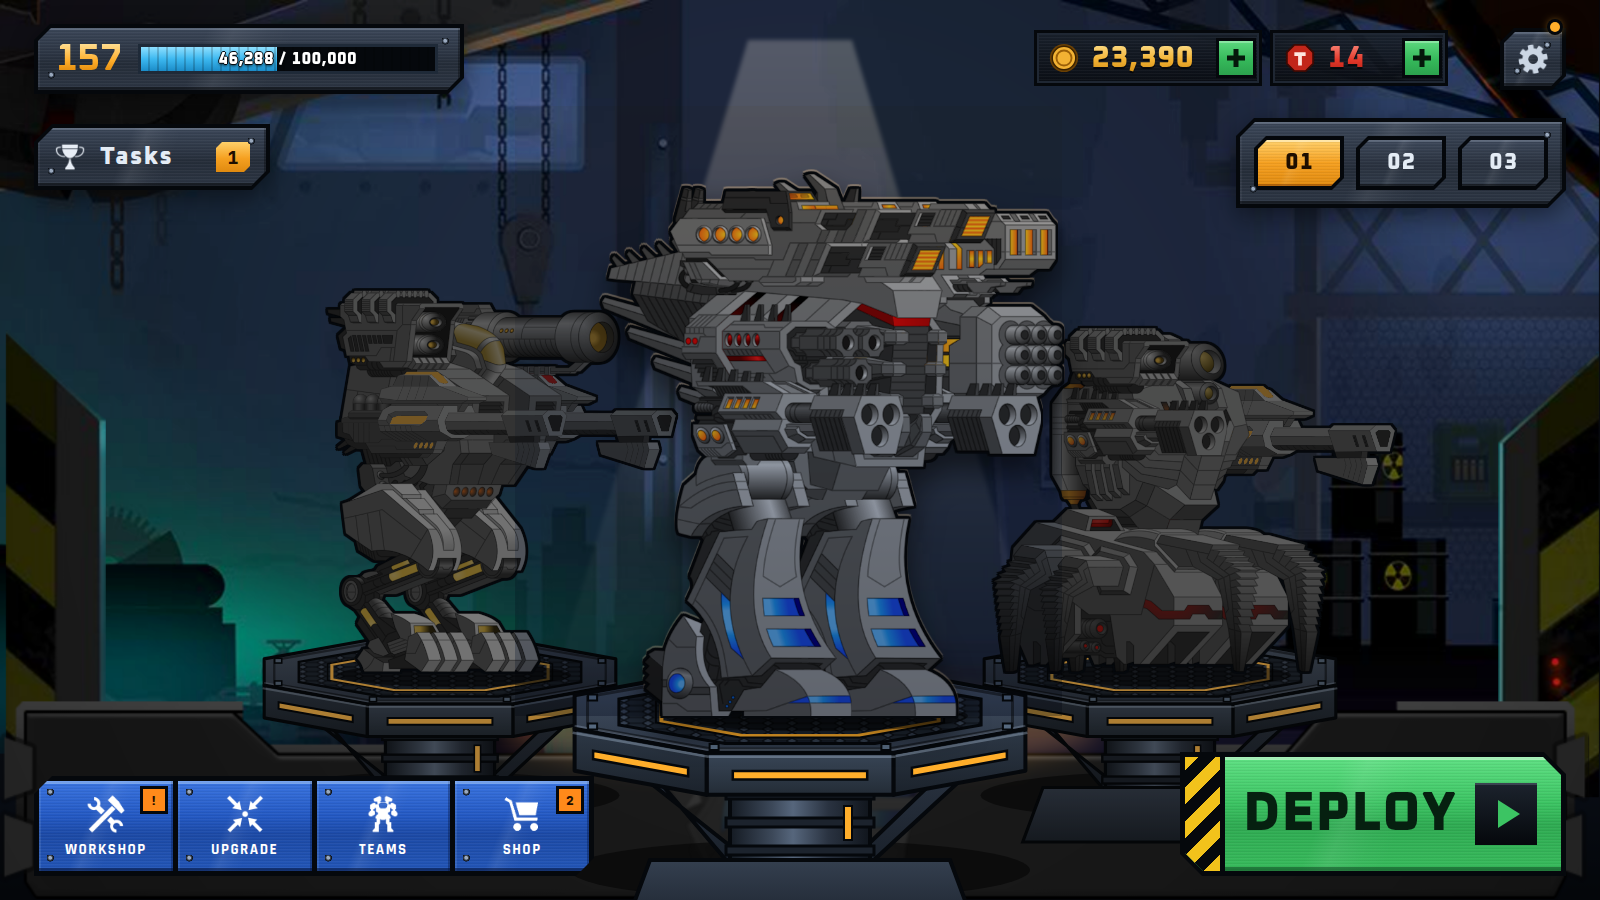
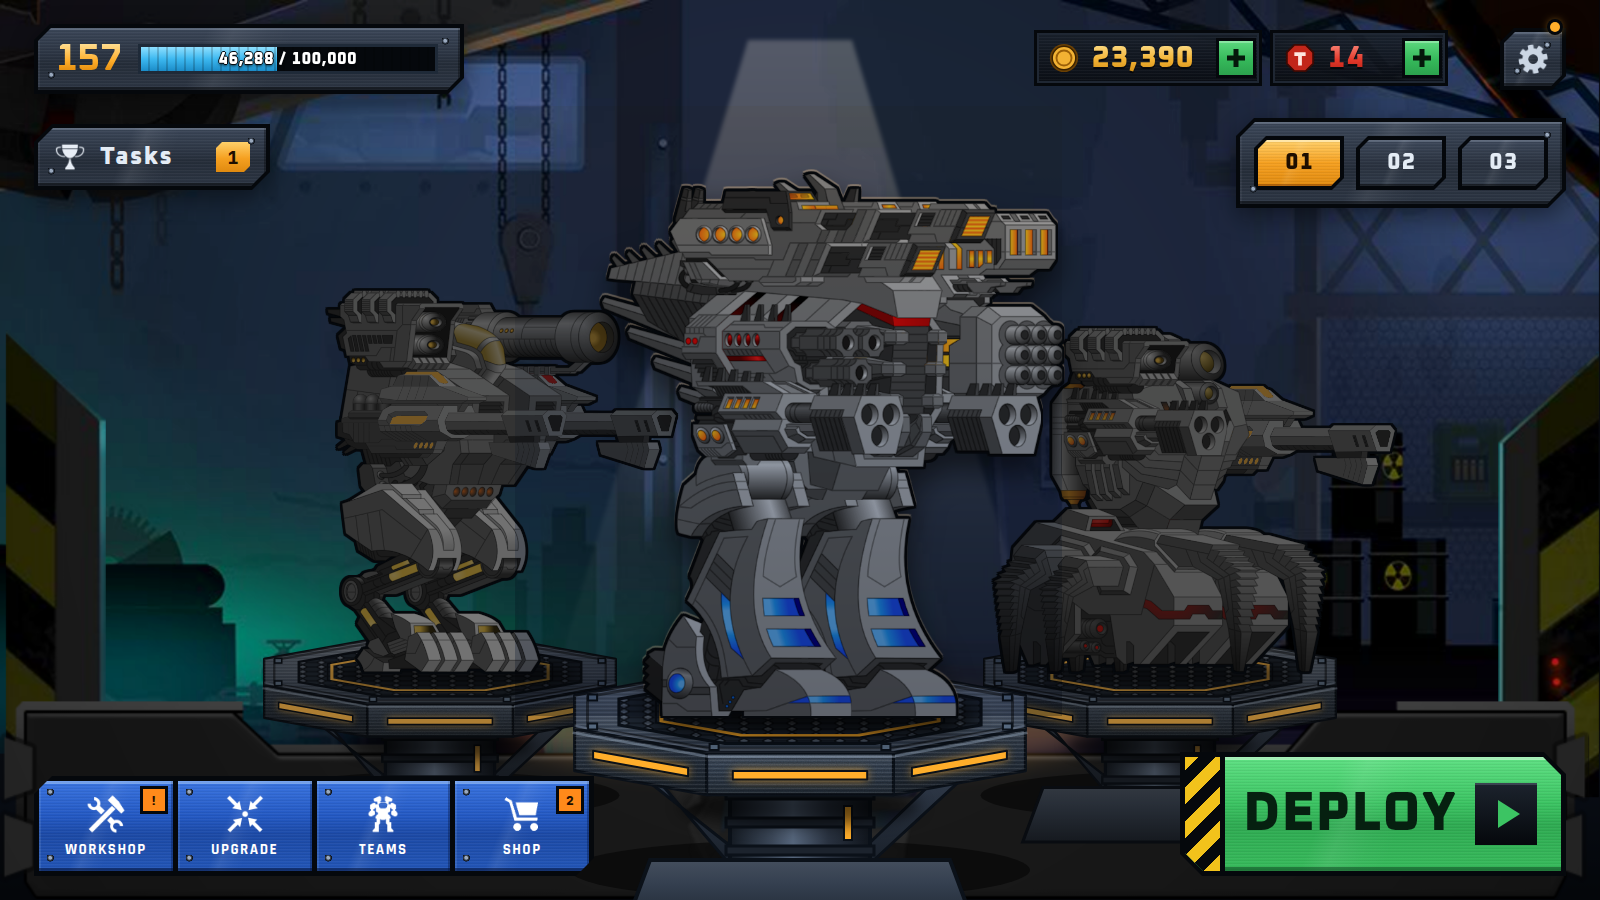
Softer, textured pedestals
Lighter rounded outlines, three-stop face gradients, brushed lines and fine
grain on every face, a warm light on the top plate, soft shadows where tiers
meet the column, and glowing amber strips.

Claude-Session: https://claude.ai/code/session_016EMeU7WbdybdkHaQ4QiAx5

diff --git a/ui/mocks/H-bay.html b/ui/mocks/H-bay.html
@@ -236,53 +236,66 @@ canvas{position:absolute;left:0;top:0;width:1600px;height:900px}
   <div id="refl"></div>
   <svg id="ped" width="1600" height="900" viewBox="0 0 1600 900">
     <defs>
+      <pattern id="brush" width="400" height="4" patternUnits="userSpaceOnUse"><rect width="400" height="1" fill="#fff" opacity=".09"/><rect y="2" width="400" height="1" fill="#000" opacity=".12"/></pattern>
+      <filter id="grain" x="0" y="0" width="100%" height="100%"><feTurbulence type="fractalNoise" baseFrequency=".85" numOctaves="2" seed="4"/><feColorMatrix values="0 0 0 0 0  0 0 0 0 0  0 0 0 0 0  0 0 0 .45 0"/><feComposite in2="SourceGraphic" operator="in"/></filter>
+      <filter id="glow" x="-40%" y="-200%" width="180%" height="500%"><feGaussianBlur stdDeviation="5"/></filter>
+      <filter id="soft" x="-30%" y="-80%" width="160%" height="260%"><feGaussianBlur stdDeviation="8"/></filter>
+      <radialGradient id="toplight" cx=".5" cy=".35" r=".6"><stop offset="0" stop-color="#ffe9c8" stop-opacity=".34"/><stop offset=".6" stop-color="#ffe9c8" stop-opacity=".08"/><stop offset="1" stop-color="#ffe9c8" stop-opacity="0"/></radialGradient>
       <pattern id="hex" width="24" height="14" patternUnits="userSpaceOnUse" patternTransform="scale(1,.42)">
         <path d="M6 0h12l6 7-6 7H6L0 7z" fill="#1d2530" stroke="#0b0f15" stroke-width="2.5"/>
       </pattern>
-      <linearGradient id="pf1" x1="0" y1="0" x2="0" y2="1"><stop offset="0" stop-color="#2e3847"/><stop offset="1" stop-color="#1a212b"/></linearGradient>
-      <linearGradient id="pf2" x1="0" y1="0" x2="0" y2="1"><stop offset="0" stop-color="#2e3847"/><stop offset="1" stop-color="#1a212b"/></linearGradient>
-      <linearGradient id="pf3" x1="0" y1="0" x2="0" y2="1"><stop offset="0" stop-color="#343f4f"/><stop offset="1" stop-color="#1c232d"/></linearGradient>
+      <linearGradient id="pf1" x1="0" y1="0" x2="0" y2="1"><stop offset="0" stop-color="#3e4755"/><stop offset=".35" stop-color="#2e3847"/><stop offset="1" stop-color="#1a212b"/></linearGradient>
+      <linearGradient id="pf2" x1="0" y1="0" x2="0" y2="1"><stop offset="0" stop-color="#3e4755"/><stop offset=".35" stop-color="#2e3847"/><stop offset="1" stop-color="#1a212b"/></linearGradient>
+      <linearGradient id="pf3" x1="0" y1="0" x2="0" y2="1"><stop offset="0" stop-color="#444e5d"/><stop offset=".35" stop-color="#343f4f"/><stop offset="1" stop-color="#1c232d"/></linearGradient>
       <linearGradient id="pf4" x1="0" y1="0" x2="1" y2="0"><stop offset="0" stop-color="#141a22"/><stop offset=".3" stop-color="#3c4859"/><stop offset=".45" stop-color="#56667c"/><stop offset=".7" stop-color="#2a3341"/><stop offset="1" stop-color="#10151c"/></linearGradient>
-      <linearGradient id="pf5" x1="0" y1="0" x2="0" y2="1"><stop offset="0" stop-color="#465366"/><stop offset="1" stop-color="#2c3645"/></linearGradient>
-      <linearGradient id="pf6" x1="0" y1="0" x2="0" y2="1"><stop offset="0" stop-color="#2d3846"/><stop offset="1" stop-color="#1b222b"/></linearGradient>
-      <linearGradient id="pf7" x1="0" y1="0" x2="0" y2="1"><stop offset="0" stop-color="#3a4758"/><stop offset="1" stop-color="#232c36"/></linearGradient>
-      <linearGradient id="pf8" x1="0" y1="0" x2="0" y2="1"><stop offset="0" stop-color="#2d3846"/><stop offset="1" stop-color="#1b222b"/></linearGradient>
+      <linearGradient id="pf5" x1="0" y1="0" x2="0" y2="1"><stop offset="0" stop-color="#546072"/><stop offset=".35" stop-color="#465366"/><stop offset="1" stop-color="#2c3645"/></linearGradient>
+      <linearGradient id="pf6" x1="0" y1="0" x2="0" y2="1"><stop offset="0" stop-color="#3d4754"/><stop offset=".35" stop-color="#2d3846"/><stop offset="1" stop-color="#1b222b"/></linearGradient>
+      <linearGradient id="pf7" x1="0" y1="0" x2="0" y2="1"><stop offset="0" stop-color="#495565"/><stop offset=".35" stop-color="#3a4758"/><stop offset="1" stop-color="#232c36"/></linearGradient>
+      <linearGradient id="pf8" x1="0" y1="0" x2="0" y2="1"><stop offset="0" stop-color="#3d4754"/><stop offset=".35" stop-color="#2d3846"/><stop offset="1" stop-color="#1b222b"/></linearGradient>
     </defs>
     <g id="pedMain">
     <ellipse cx="800" cy="870" rx="230" ry="30" fill="#000" opacity=".5"/>
-    <path d="M596 740 L624 740 L726 860 L748 860 Z" fill="url(#pf1)" stroke="#05080c" stroke-width="4" stroke-linejoin="round"/>
-    <path d="M976 740 L1004 740 L874 860 L852 860 Z" fill="url(#pf2)" stroke="#05080c" stroke-width="4" stroke-linejoin="round"/>
-    <path d="M650 860 L950 860 L976 930 L624 930 Z" fill="url(#pf3)" stroke="#05080c" stroke-width="4"/>
-    <rect x="730" y="746" width="140" height="114" fill="url(#pf4)" stroke="#05080c" stroke-width="4"/>
-    <rect x="765" y="742" width="70" height="40" fill="url(#pf4)" stroke="#05080c" stroke-width="3"/>
-    <rect x="726" y="790" width="148" height="9" fill="#1c232d" stroke="#05080c" stroke-width="3"/>
-    <rect x="726" y="818" width="148" height="9" fill="#1c232d" stroke="#05080c" stroke-width="3"/>
-    <rect x="726" y="846" width="148" height="9" fill="#1c232d" stroke="#05080c" stroke-width="3"/>
-    <rect x="844" y="806" width="8" height="34" fill="#ffae2b" stroke="#05080c" stroke-width="2"/>
-    <path d="M1025.4 728.8 L893.4 752.7 L893.4 794.7 L1025.4 770.8 Z" fill="url(#pf6)" stroke="#05080c" stroke-width="4" stroke-linejoin="round"/>
+    <path d="M596 740 L624 740 L726 860 L748 860 Z" fill="url(#pf1)" stroke="#0b1119" stroke-width="3" stroke-linejoin="round"/>
+    <path d="M976 740 L1004 740 L874 860 L852 860 Z" fill="url(#pf2)" stroke="#0b1119" stroke-width="3" stroke-linejoin="round"/>
+    <path d="M650 860 L950 860 L976 930 L624 930 Z" fill="url(#pf3)" stroke="#0b1119" stroke-width="4"/>
+    <rect x="730" y="746" width="140" height="114" fill="url(#pf4)" stroke="#0b1119" stroke-width="4"/>
+    <rect x="765" y="742" width="70" height="40" fill="url(#pf4)" stroke="#0b1119" stroke-width="3"/>
+    <rect x="726" y="790" width="148" height="9" fill="#1c232d" stroke="#0b1119" stroke-width="3"/>
+    <rect x="726" y="818" width="148" height="9" fill="#1c232d" stroke="#0b1119" stroke-width="3"/>
+    <rect x="726" y="846" width="148" height="9" fill="#1c232d" stroke="#0b1119" stroke-width="3"/>
+    <rect x="844" y="806" width="8" height="34" fill="#ffae2b" stroke="#0b1119" stroke-width="2"/>
+    <ellipse cx="800" cy="806" rx="120" ry="20" fill="#000" opacity=".6" filter="url(#soft)"/>
+    <path d="M1025.4 728.8 L893.4 752.7 L893.4 794.7 L1025.4 770.8 Z" fill="url(#pf6)" stroke="#0b1119" stroke-width="3" stroke-linejoin="round"/>
+    <path d="M1025.4 728.8 L893.4 752.7 L893.4 794.7 L1025.4 770.8 Z" fill="url(#brush)"/><path d="M1025.4 728.8 L893.4 752.7 L893.4 794.7 L1025.4 770.8 Z" fill="#000" filter="url(#grain)" opacity=".5"/>
     <path d="M1027.4 732.8 L891.4 756.7" stroke="rgba(200,220,245,.32)" stroke-width="2.5"/>
-    <path d="M1006.9 750.7 L911.9 767.8 L911.9 776.2 L1006.9 759.1 Z" fill="#ffae2b" stroke="#05080c" stroke-width="2.5"/>
-    <path d="M893.4 752.7 L706.6 752.7 L706.6 794.7 L893.4 794.7 Z" fill="url(#pf7)" stroke="#05080c" stroke-width="4" stroke-linejoin="round"/>
+    <path d="M1006.9 750.7 L911.9 767.8 L911.9 776.2 L1006.9 759.1 Z" fill="#ffae2b" filter="url(#glow)" opacity=".8"/>
+    <path d="M1006.9 750.7 L911.9 767.8 L911.9 776.2 L1006.9 759.1 Z" fill="#ffae2b" stroke="#0b1119" stroke-width="2" stroke-linejoin="round"/>
+    <path d="M893.4 752.7 L706.6 752.7 L706.6 794.7 L893.4 794.7 Z" fill="url(#pf7)" stroke="#0b1119" stroke-width="3" stroke-linejoin="round"/>
+    <path d="M893.4 752.7 L706.6 752.7 L706.6 794.7 L893.4 794.7 Z" fill="url(#brush)"/><path d="M893.4 752.7 L706.6 752.7 L706.6 794.7 L893.4 794.7 Z" fill="#000" filter="url(#grain)" opacity=".5"/>
     <path d="M895.4 756.7 L704.6 756.7" stroke="rgba(200,220,245,.32)" stroke-width="2.5"/>
-    <path d="M867.2 771.1 L732.8 771.1 L732.8 779.5 L867.2 779.5 Z" fill="#ffae2b" stroke="#05080c" stroke-width="2.5"/>
-    <path d="M706.6 752.7 L574.6 728.8 L574.6 770.8 L706.6 794.7 Z" fill="url(#pf8)" stroke="#05080c" stroke-width="4" stroke-linejoin="round"/>
+    <path d="M867.2 771.1 L732.8 771.1 L732.8 779.5 L867.2 779.5 Z" fill="#ffae2b" filter="url(#glow)" opacity=".8"/>
+    <path d="M867.2 771.1 L732.8 771.1 L732.8 779.5 L867.2 779.5 Z" fill="#ffae2b" stroke="#0b1119" stroke-width="2" stroke-linejoin="round"/>
+    <path d="M706.6 752.7 L574.6 728.8 L574.6 770.8 L706.6 794.7 Z" fill="url(#pf8)" stroke="#0b1119" stroke-width="3" stroke-linejoin="round"/>
+    <path d="M706.6 752.7 L574.6 728.8 L574.6 770.8 L706.6 794.7 Z" fill="url(#brush)"/><path d="M706.6 752.7 L574.6 728.8 L574.6 770.8 L706.6 794.7 Z" fill="#000" filter="url(#grain)" opacity=".5"/>
     <path d="M708.6 756.7 L572.6 732.8" stroke="rgba(200,220,245,.32)" stroke-width="2.5"/>
-    <path d="M688.1 767.8 L593.1 750.7 L593.1 759.1 L688.1 776.2 Z" fill="#ffae2b" stroke="#05080c" stroke-width="2.5"/>
-    <path d="M1025.4 728.8 L893.4 752.7 L706.6 752.7 L574.6 728.8 L574.6 695.2 L706.6 671.3 L893.4 671.3 L1025.4 695.2 Z" fill="url(#pf5)" stroke="#05080c" stroke-width="4" stroke-linejoin="round"/>
+    <path d="M688.1 767.8 L593.1 750.7 L593.1 759.1 L688.1 776.2 Z" fill="#ffae2b" filter="url(#glow)" opacity=".8"/>
+    <path d="M688.1 767.8 L593.1 750.7 L593.1 759.1 L688.1 776.2 Z" fill="#ffae2b" stroke="#0b1119" stroke-width="2" stroke-linejoin="round"/>
+    <path d="M1025.4 728.8 L893.4 752.7 L706.6 752.7 L574.6 728.8 L574.6 695.2 L706.6 671.3 L893.4 671.3 L1025.4 695.2 Z" fill="url(#pf5)" stroke="#0b1119" stroke-width="3" stroke-linejoin="round"/>
+    <path d="M1025.4 728.8 L893.4 752.7 L706.6 752.7 L574.6 728.8 L574.6 695.2 L706.6 671.3 L893.4 671.3 L1025.4 695.2 Z" fill="url(#brush)"/><path d="M1025.4 728.8 L893.4 752.7 L706.6 752.7 L574.6 728.8 L574.6 695.2 L706.6 671.3 L893.4 671.3 L1025.4 695.2 Z" fill="url(#toplight)"/>
     <path d="M1012.5 727.3 L888.0 749.0 L712.0 749.0 L587.5 727.3 L587.5 696.7 L712.0 675.0 L888.0 675.0 L1012.5 696.7 Z" fill="none" stroke="rgba(0,0,0,.45)" stroke-width="3"/>
     <path d="M574.6 725.8 L706.6 749.7 L893.4 749.7 L1025.4 725.8" fill="none" stroke="rgba(200,220,245,.22)" stroke-width="2"/>
-    <path d="M981.1 725.0 L875.0 743.4 L725.0 743.4 L618.9 725.0 L618.9 699.0 L725.0 680.6 L875.0 680.6 L981.1 699.0 Z" fill="url(#hex)" stroke="#05080c" stroke-width="3"/>
+    <path d="M981.1 725.0 L875.0 743.4 L725.0 743.4 L618.9 725.0 L618.9 699.0 L725.0 680.6 L875.0 680.6 L981.1 699.0 Z" fill="url(#hex)" stroke="#0b1119" stroke-width="3"/>
     <path d="M938.6 721.9 L857.4 736.0 L742.6 736.0 L661.4 721.9 L661.4 702.1 L742.6 688.0 L857.4 688.0 L938.6 702.1 Z" fill="none" stroke="#ffae2b" stroke-width="4"/>
-    <path d="M944.1 722.5 L859.7 737.4 L740.3 737.4 L655.9 722.5 L655.9 701.5 L740.3 686.6 L859.7 686.6 L944.1 701.5 Z" fill="none" stroke="#05080c" stroke-width="2"/>
-    <ellipse id="contact" cx="818" cy="716" rx="150" ry="15" fill="#000" opacity=".5"/>
-    <rect x="1002.9" y="723.5" width="9" height="6" fill="#56697f" stroke="#05080c" stroke-width="2"/>
-    <rect x="881.4" y="744.0" width="9" height="6" fill="#56697f" stroke="#05080c" stroke-width="2"/>
-    <rect x="709.6" y="744.0" width="9" height="6" fill="#56697f" stroke="#05080c" stroke-width="2"/>
-    <rect x="588.1" y="723.5" width="9" height="6" fill="#56697f" stroke="#05080c" stroke-width="2"/>
-    <rect x="588.1" y="694.5" width="9" height="6" fill="#56697f" stroke="#05080c" stroke-width="2"/>
-    <rect x="709.6" y="674.0" width="9" height="6" fill="#56697f" stroke="#05080c" stroke-width="2"/>
-    <rect x="881.4" y="674.0" width="9" height="6" fill="#56697f" stroke="#05080c" stroke-width="2"/>
-    <rect x="1002.9" y="694.5" width="9" height="6" fill="#56697f" stroke="#05080c" stroke-width="2"/>
+    <path d="M944.1 722.5 L859.7 737.4 L740.3 737.4 L655.9 722.5 L655.9 701.5 L740.3 686.6 L859.7 686.6 L944.1 701.5 Z" fill="none" stroke="#0b1119" stroke-width="2"/>
+    <ellipse id="contact" cx="818" cy="716" rx="160" ry="18" fill="#000" opacity=".55" filter="url(#soft)"/>
+    <rect x="1002.9" y="723.5" width="9" height="6" fill="#56697f" stroke="#0b1119" stroke-width="2"/>
+    <rect x="881.4" y="744.0" width="9" height="6" fill="#56697f" stroke="#0b1119" stroke-width="2"/>
+    <rect x="709.6" y="744.0" width="9" height="6" fill="#56697f" stroke="#0b1119" stroke-width="2"/>
+    <rect x="588.1" y="723.5" width="9" height="6" fill="#56697f" stroke="#0b1119" stroke-width="2"/>
+    <rect x="588.1" y="694.5" width="9" height="6" fill="#56697f" stroke="#0b1119" stroke-width="2"/>
+    <rect x="709.6" y="674.0" width="9" height="6" fill="#56697f" stroke="#0b1119" stroke-width="2"/>
+    <rect x="881.4" y="674.0" width="9" height="6" fill="#56697f" stroke="#0b1119" stroke-width="2"/>
+    <rect x="1002.9" y="694.5" width="9" height="6" fill="#56697f" stroke="#0b1119" stroke-width="2"/>
     </g>
   </svg>
   <div id="mech"></div>

diff --git a/ui/mocks/build_pedestal.py b/ui/mocks/build_pedestal.py
@@ -4,7 +4,8 @@ Run from the repo root:  python ui/mocks/build_pedestal.py
 import math, os, re
 
 HERE = os.path.dirname(os.path.abspath(__file__))
-OUT = '#05080c'
+OUT = '#0b1119'   # softer than the UI outline
+TEX = 'url(#brush)'
 CX, TOP_Y = 800, 712
 BASE = dict(cy=766, rx=306, ry=60, h=50)   # lower tier
 TOP = dict(cy=TOP_Y, rx=244, ry=44, h=42)  # upper tier, the mech stands on it
@@ -25,9 +26,15 @@ def lerp(a, b, t):
 defs = []
 
 
+def mix(a, b, t):
+    a = [int(a[i:i + 2], 16) for i in (1, 3, 5)]; b = [int(b[i:i + 2], 16) for i in (1, 3, 5)]
+    return '#%02x%02x%02x' % tuple(int(a[i] + (b[i] - a[i]) * t) for i in range(3))
+
+
 def grad(top, bot):
     n = 'pf%d' % (len(defs) + 1)
-    defs.append('<linearGradient id="%s" x1="0" y1="0" x2="0" y2="1"><stop offset="0" stop-color="%s"/><stop offset="1" stop-color="%s"/></linearGradient>' % (n, top, bot))
+    defs.append('<linearGradient id="%s" x1="0" y1="0" x2="0" y2="1"><stop offset="0" stop-color="%s"/><stop offset=".35" stop-color="%s"/><stop offset="1" stop-color="%s"/></linearGradient>'
+                % (n, mix(top, '#ffffff', .08), top, bot))
     return 'url(#%s)' % n
 
 
@@ -49,7 +56,8 @@ def tier(cy, rx, ry, h, top, lvl, strip=None, ribs=0):
         if (a[1] + b[1]) / 2 <= cy + 1:
             continue  # back faces are hidden
         quad = [a, b, (b[0], b[1] + h), (a[0], a[1] + h)]
-        s.append('<path d="%s" fill="%s" stroke="%s" stroke-width="4" stroke-linejoin="round"/>' % (P(quad), shade(a, b, lvl), OUT))
+        s.append('<path d="%s" fill="%s" stroke="%s" stroke-width="3" stroke-linejoin="round"/>' % (P(quad), shade(a, b, lvl), OUT))
+        s.append('<path d="%s" fill="url(#brush)"/><path d="%s" fill="#000" filter="url(#grain)" opacity=".5"/>' % (P(quad), P(quad)))
         s.append('<path d="M%.1f %.1f L%.1f %.1f" stroke="rgba(200,220,245,.32)" stroke-width="2.5"/>' % (a[0] + 2, a[1] + 4, b[0] - 2, b[1] + 4))
         for r in range(1, ribs + 1):
             p = lerp(a, b, r / (ribs + 1))
@@ -58,8 +66,10 @@ def tier(cy, rx, ry, h, top, lvl, strip=None, ribs=0):
             y0, y1 = h * .44, h * .64
             q0, q1 = lerp(a, b, .14), lerp(a, b, .86)
             q = [(q0[0], q0[1] + y0), (q1[0], q1[1] + y0), (q1[0], q1[1] + y1), (q0[0], q0[1] + y1)]
-            s.append('<path d="%s" fill="%s" stroke="%s" stroke-width="2.5"/>' % (P(q), strip, OUT))
-    s.append('<path d="%s" fill="%s" stroke="%s" stroke-width="4" stroke-linejoin="round"/>' % (P(pts), top, OUT))
+            s.append('<path d="%s" fill="%s" filter="url(#glow)" opacity=".8"/>' % (P(q), strip))
+            s.append('<path d="%s" fill="%s" stroke="%s" stroke-width="2" stroke-linejoin="round"/>' % (P(q), strip, OUT))
+    s.append('<path d="%s" fill="%s" stroke="%s" stroke-width="3" stroke-linejoin="round"/>' % (P(pts), top, OUT))
+    s.append('<path d="%s" fill="url(#brush)"/><path d="%s" fill="url(#toplight)"/>' % (P(pts), P(pts)))
     s.append('<path d="%s" fill="none" stroke="rgba(0,0,0,.45)" stroke-width="3"/>' % P(octo(CX, cy, rx - 14, ry - 4)))
     front = sorted(p for p in pts if p[1] > cy)
     s.append('<path d="M%s" fill="none" stroke="rgba(200,220,245,.22)" stroke-width="2"/>' % ' L'.join('%.1f %.1f' % (x, y - 3) for x, y in front))
@@ -74,7 +84,7 @@ def support():
     s.append('<ellipse cx="%d" cy="%d" rx="230" ry="30" fill="#000" opacity=".5"/>' % (CX, foot - 60))
     for sgn in (-1, 1):
         x0, x1 = CX + sgn * 190, CX + sgn * 64
-        s.append('<path d="M%d %d L%d %d L%d %d L%d %d Z" fill="%s" stroke="%s" stroke-width="4" stroke-linejoin="round"/>'
+        s.append('<path d="M%d %d L%d %d L%d %d L%d %d Z" fill="%s" stroke="%s" stroke-width="3" stroke-linejoin="round"/>'
                  % (x0 - 14, top - 6, x0 + 14, top - 6, x1 + 10 * sgn, foot - 70, x1 - 12 * sgn, foot - 70, grad('#2e3847', '#1a212b'), OUT))
     s.append('<path d="M%d %d L%d %d L%d %d L%d %d Z" fill="%s" stroke="%s" stroke-width="4"/>'
              % (CX - 150, foot - 70, CX + 150, foot - 70, CX + 176, foot, CX - 176, foot, grad('#343f4f', '#1c232d'), OUT))
@@ -89,12 +99,14 @@ def support():
 
 
 out = support()
+# soft shadow the tier casts on the column
+out.append('<ellipse cx="%d" cy="%d" rx="120" ry="20" fill="#000" opacity=".6" filter="url(#soft)"/>' % (CX, TOP['cy'] + TOP['ry'] + TOP['h'] + 8))
 t, pts = tier(TOP['cy'], TOP['rx'], TOP['ry'], TOP['h'], grad('#465366', '#2c3645'), 1.0, strip='#ffae2b')
 out += t
 out.append('<path d="%s" fill="url(#hex)" stroke="%s" stroke-width="3"/>' % (P(octo(CX, TOP_Y, 196, 34)), OUT))
 out.append('<path d="%s" fill="none" stroke="#ffae2b" stroke-width="4"/>' % P(octo(CX, TOP_Y, 150, 26)))
 out.append('<path d="%s" fill="none" stroke="%s" stroke-width="2"/>' % (P(octo(CX, TOP_Y, 156, 27.5)), OUT))
-out.append('<ellipse id="contact" cx="818" cy="716" rx="150" ry="15" fill="#000" opacity=".5"/>')
+out.append('<ellipse id="contact" cx="818" cy="716" rx="160" ry="18" fill="#000" opacity=".55" filter="url(#soft)"/>')
 for (x, y) in pts:
     out.append('<rect x="%.1f" y="%.1f" width="9" height="6" fill="#56697f" stroke="%s" stroke-width="2"/>' % (x - 4.5 + (CX - x) * .08, y - 3 + (TOP_Y - y) * .14, OUT))
 
@@ -103,6 +115,11 @@ import sys
 TARGET = sys.argv[1] if len(sys.argv) > 1 else 'F-bay.html'
 SIDES = [tuple(map(float, v.split(','))) for v in sys.argv[2:]] or [(282, 702, .5), (1410, 700, .5)]   # (centre x, top y, scale)
 svg = ('<svg id="ped" width="1600" height="900" viewBox="0 0 1600 900">\n    <defs>\n'
+       '      <pattern id="brush" width="400" height="4" patternUnits="userSpaceOnUse"><rect width="400" height="1" fill="#fff" opacity=".09"/><rect y="2" width="400" height="1" fill="#000" opacity=".12"/></pattern>\n'
+       '      <filter id="grain" x="0" y="0" width="100%" height="100%"><feTurbulence type="fractalNoise" baseFrequency=".85" numOctaves="2" seed="4"/><feColorMatrix values="0 0 0 0 0  0 0 0 0 0  0 0 0 0 0  0 0 0 .45 0"/><feComposite in2="SourceGraphic" operator="in"/></filter>\n'
+       '      <filter id="glow" x="-40%" y="-200%" width="180%" height="500%"><feGaussianBlur stdDeviation="5"/></filter>\n'
+       '      <filter id="soft" x="-30%" y="-80%" width="160%" height="260%"><feGaussianBlur stdDeviation="8"/></filter>\n'
+       '      <radialGradient id="toplight" cx=".5" cy=".35" r=".6"><stop offset="0" stop-color="#ffe9c8" stop-opacity=".34"/><stop offset=".6" stop-color="#ffe9c8" stop-opacity=".08"/><stop offset="1" stop-color="#ffe9c8" stop-opacity="0"/></radialGradient>\n'
        '      <pattern id="hex" width="24" height="14" patternUnits="userSpaceOnUse" patternTransform="scale(1,.42)">\n'
        '        <path d="M6 0h12l6 7-6 7H6L0 7z" fill="#1d2530" stroke="#0b0f15" stroke-width="2.5"/>\n      </pattern>\n      '
        + '\n      '.join(defs) + '\n    </defs>\n    <g id="pedMain">\n    ' + '\n    '.join(out) + '\n    </g>\n  </svg>')
